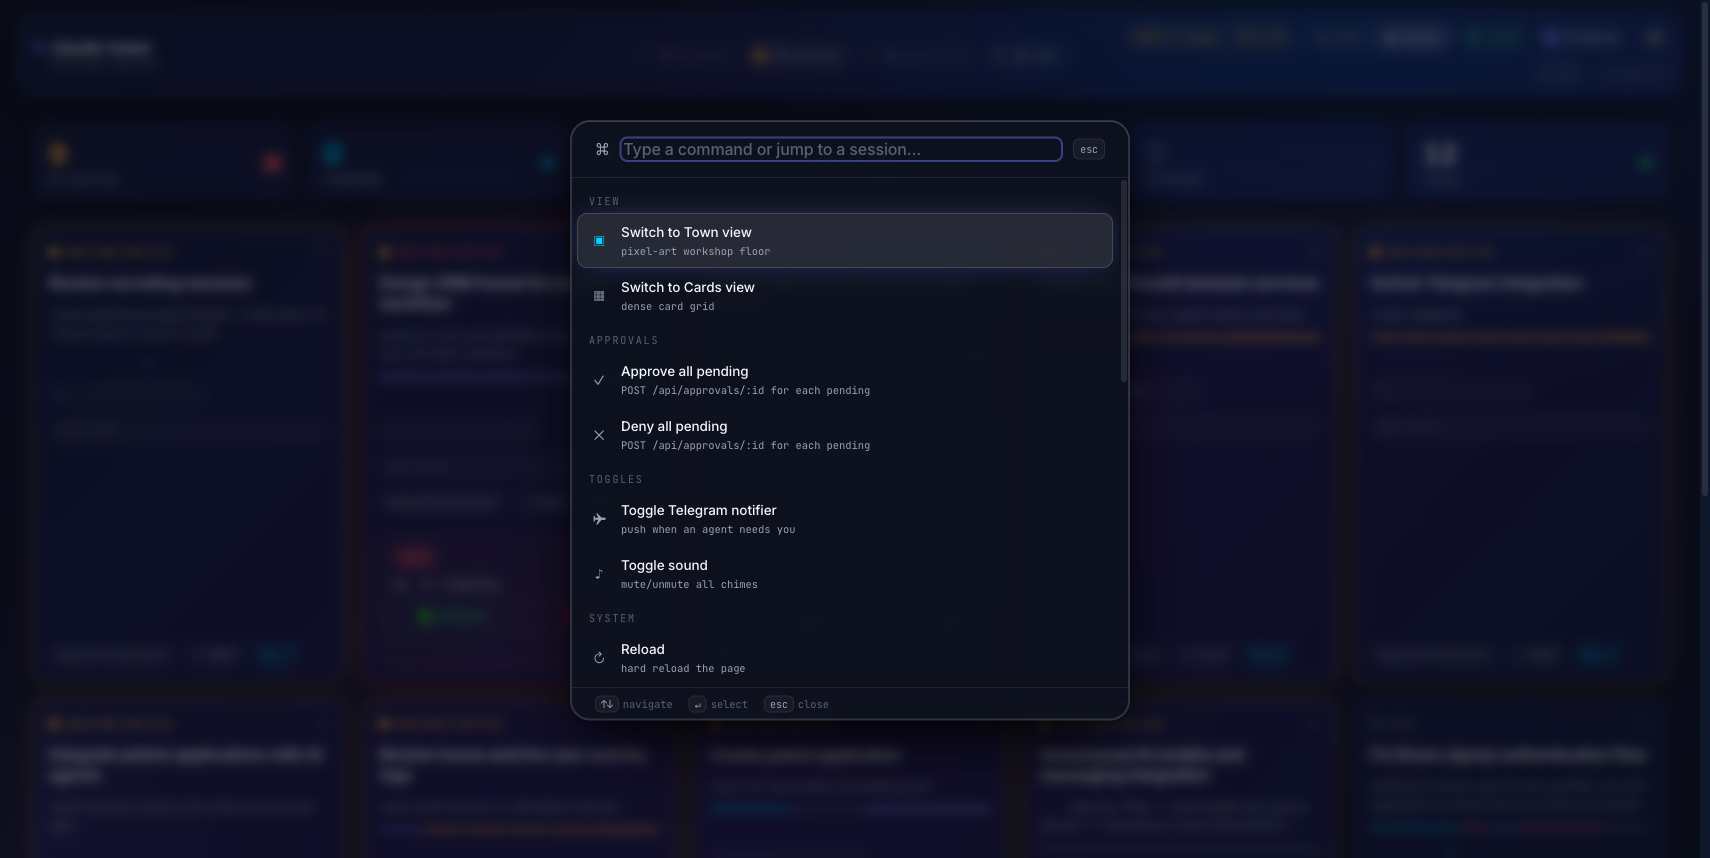
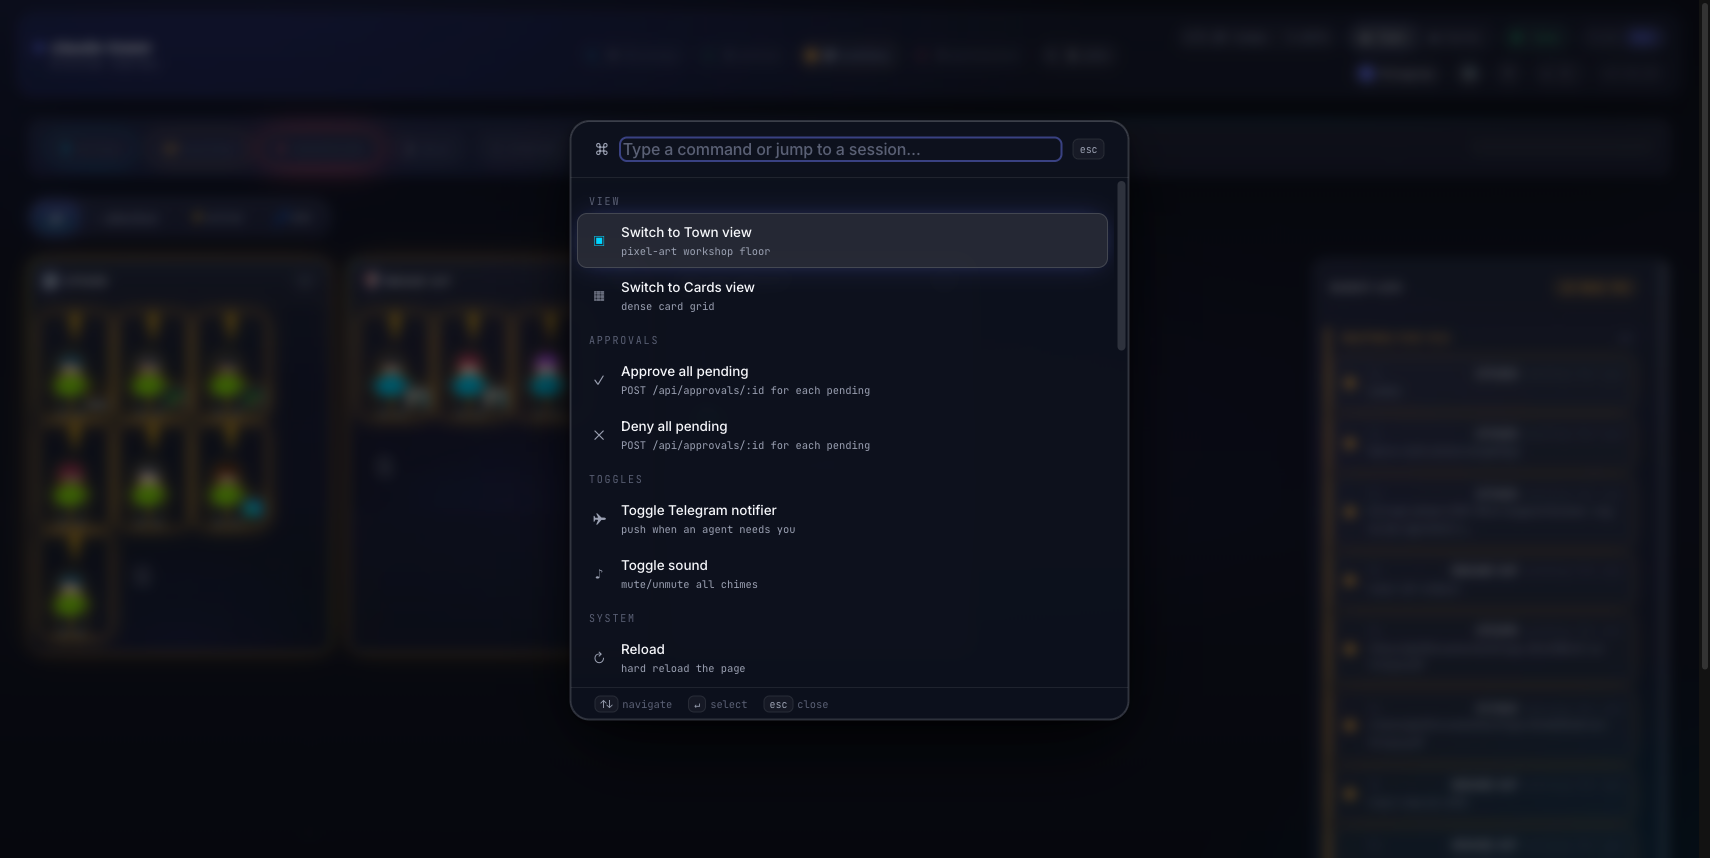
chore: bump v0.3.0 + final wave-2 screenshots
Tokens-by-default (Claude Max/Pro) instead of dollar fiction,
onboarding overlay, help (?), command palette recents,
attention vignette, sprite breathing, 19+5 hardened bugs.

diff --git a/lib/config.js b/lib/config.js
@@ -1,6 +1,6 @@
 // Single source of truth for runtime config. Reads env vars + CLI args once.
 
-export const VERSION = "0.2.0";
+export const VERSION = "0.3.0";
 
 // Most Claude Code users are on a Max/Pro subscription (flat fee, no per-token
 // billing). For them, a dollar burn-rate is misleading. So default behavior:
